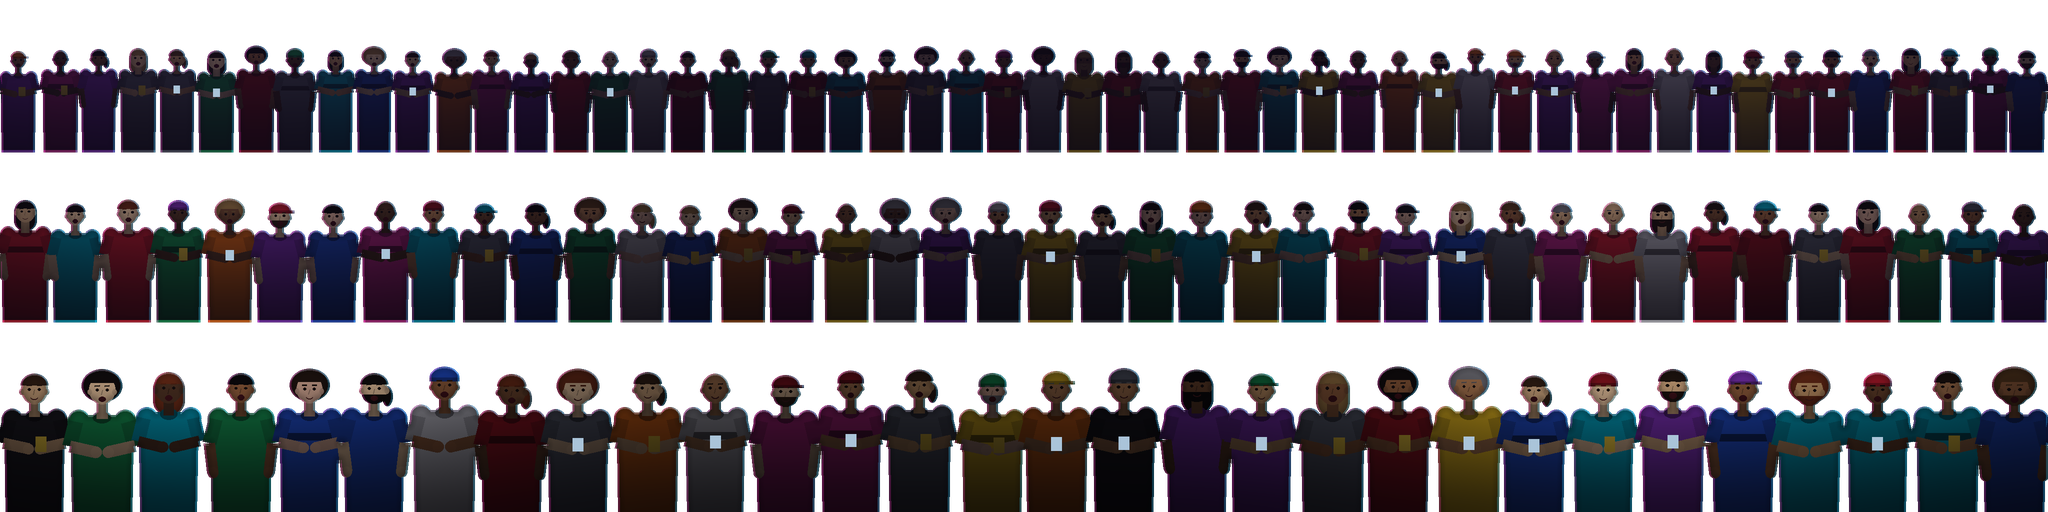
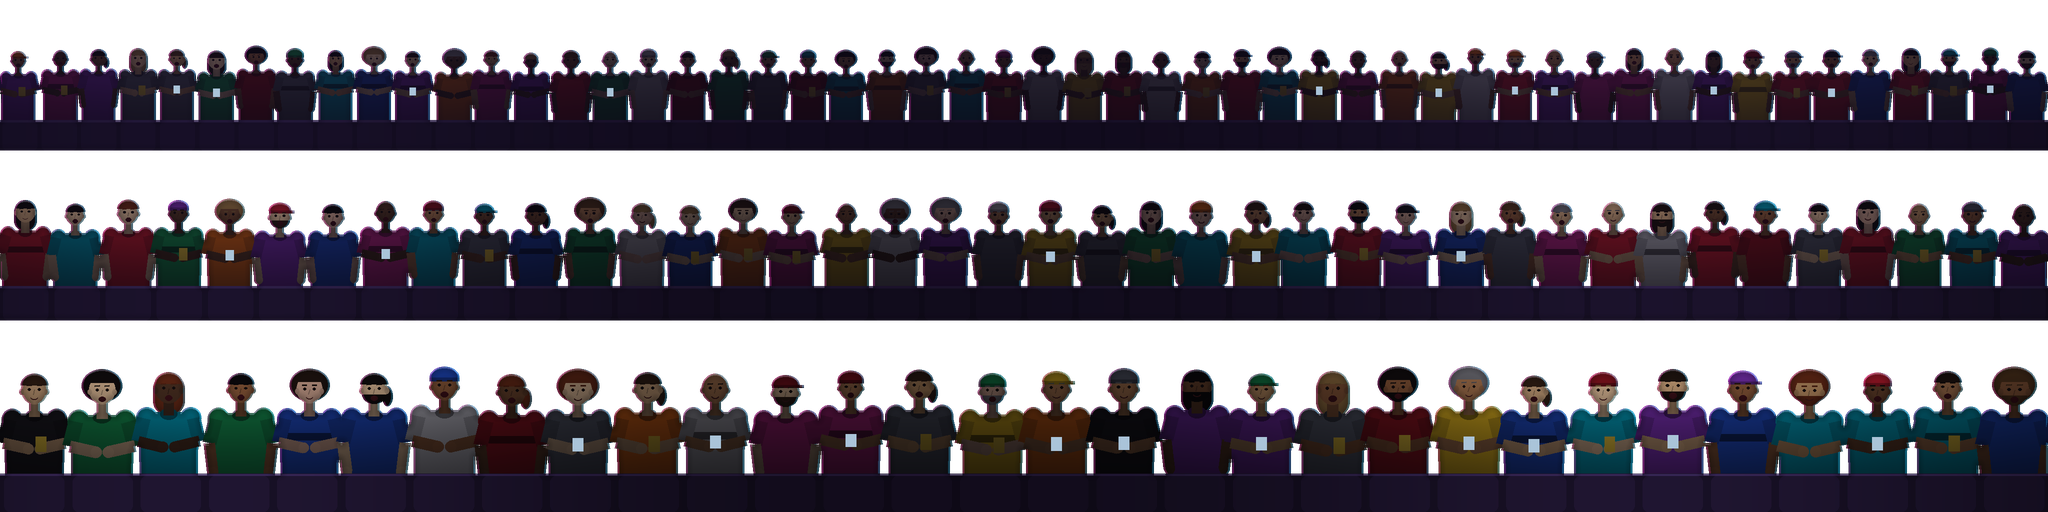
Build 100: desenho da build 97 na S905L, torcida sem cortes
- VISUAL_NOVO = false: a 98 e a 99 caiam em 99% do carregamento (o
  instante em que tudo e desenhado pela primeira vez). O jogo volta a
  desenhar exatamente como a 97, que rodava na placa; camera, permissoes
  uma vez so e tela cheia continuam.
- Luva e bota esquerdas do avesso: CULL_FRONT no material da peca (sem
  refazer a malha).
- Torcida: encosto da arquibancada na frente de cada fileira (gerar_torcida.py),
  parado no shader enquanto as pessoas se mexem; folga em cima para o
  pulo; movimento zerado na borda da coluna (sem linha entre pessoas);
  ritmo em fracoes calculadas no processador (meia precisao da Mali-450).

Claude-Session: https://claude.ai/code/session_017p6NC1XPLbgZ4GB1t1F6Rp

Changed region(s): [[0.0, 0.5312, 1.0, 0.6562], [0.0, 0.9062, 1.0, 1.0], [0.0, 0.2188, 1.0, 0.3125]]

diff --git a/tools/gerar_torcida.py b/tools/gerar_torcida.py
@@ -204,6 +204,13 @@ CAMISAS = [(214, 30, 48), (30, 76, 200), (250, 200, 30), (238, 238, 242),
            (0, 170, 200), (200, 40, 140), (90, 96, 110), (150, 20, 30)]
 CAMISAS[3] = (196, 196, 204)  # branco de ginásio, não branco de estúdio
 PLACAS = ["KO!", "VAI!", "10", "UAU", "POW", "#1"]
+## O ENCOSTO DA ARQUIBANCADA: da fração ASSENTO da faixa até o pé dela, uma
+## faixa opaca na frente de cada fileira. O shader da arena deixa esse
+## trecho PARADO (as pessoas pulam atrás dele) — tem de ser o mesmo número
+## de `ASSENTO_DA_TORCIDA` em `scripts/arena/arena3d.gd`. Sem ele cada
+## pessoa era uma barra que terminava num corte reto no pé da fileira.
+ASSENTO = 0.80
+ENCOSTO = (40, 28, 62)
 ESCALA = 2  # desenha no dobro e reduz: bordas lisas, sem serrilhado
 
 
@@ -240,7 +247,7 @@ def _pessoa(dbx, dcx, x, y0, y1, ww, cw):
             d.ellipse([x + cab_r * 0.6, cab_y - cab_r * 0.2, x + cab_r * 1.4, cab_y + cab_r * 1.3], fill=_cor(cabelo))
         # tronco: ombros largos, afina na cintura; camisa com sombra embaixo
         d.polygon([(x - ww * 0.52, ombro - ww * 0.05), (x + ww * 0.52, ombro - ww * 0.05),
-                   (x + ww * 0.49, y1 + 4), (x - ww * 0.49, y1 + 4)], fill=_cor(camisa))
+                   (x + ww * 0.49, y1 - 1), (x - ww * 0.49, y1 - 1)], fill=_cor(camisa))
         d.ellipse([x - ww * 0.56, ombro - ww * 0.14, x - ww * 0.20, ombro + ww * 0.22], fill=_cor(camisa))
         d.ellipse([x + ww * 0.20, ombro - ww * 0.14, x + ww * 0.56, ombro + ww * 0.22], fill=_cor(camisa))
         if listra:
@@ -342,6 +349,16 @@ def plateia():
             x = (c + 0.5) * cw + rng.uniform(-0.04, 0.04) * cw
             ww = cw * rng.uniform(0.84, 0.90)
             _pessoa(db, dc, x, y0 * ESCALA, y1 * ESCALA, ww, cw)
+        # o encosto na frente da fileira, igual nas duas versões
+        ya = (y0 + (y1 - y0) * ASSENTO) * ESCALA
+        yb = y1 * ESCALA
+        for d in (db, dc):
+            d.rectangle([0, ya, L, yb], fill=_cor(ENCOSTO))
+            for c in range(colunas):
+                xa, xb = c * cw + cw * 0.06, (c + 1) * cw - cw * 0.06
+                d.rounded_rectangle([xa, ya + ESCALA * 2, xb, yb], radius=cw * 0.10, fill=_cor(ENCOSTO, 1.35))
+            # o friso de cima pega a luz do ringue
+            d.rectangle([0, ya, L, ya + ESCALA * 2], fill=_cor(ENCOSTO, 2.4))
     saidas = []
     for img in (baixo, cima):
         a = np.asarray(img).astype(np.float32) / 255.0
@@ -361,7 +378,8 @@ def plateia():
             faixa = (np.arange(A) >= y0 * ESCALA) & (np.arange(A) < y1 * ESCALA)
             dentro = (yy[faixa] - y0 / 512) / ((y1 - y0) / 512)
             # o corpo mergulha na sombra da fileira da frente
-            luz[faixa] = nevoa * (0.22 + 0.78 * np.clip(1.15 - dentro * 1.15, 0.0, 1.0) ** 1.3)
+            luz[faixa] = nevoa * np.where(dentro >= ASSENTO, 0.62,
+                                          0.22 + 0.78 * np.clip(1.15 - dentro * 1.15, 0.0, 1.0) ** 1.3)
         brilho = luz * pocas * (0.62 + 0.38 * volume)
         cor = cor * brilho[..., None]
         # névoa do ginásio: as fileiras do fundo puxam para o roxo

diff --git a/tools/preparar_godot3.py b/tools/preparar_godot3.py
@@ -137,11 +137,6 @@ MIPMAPS_2D = {
 }
 
 
-def tem_alfa(arq):
-    with Image.open(arq) as im:
-        return im.mode in ("RGBA", "LA", "PA") or "transparency" in im.info
-
-
 def opcoes_de_importacao():
     for arq in sorted(glob.glob(str(RAIZ / "assets/**/*.png"), recursive=True)
                       + glob.glob(str(RAIZ / "assets/**/*.jpg"), recursive=True)
@@ -155,11 +150,7 @@ def opcoes_de_importacao():
             # Tudo em no máximo 1024: a arena é desenhada numa janela de
             # ~550x780, e a torcida em 2048 só gastava memória.
             limite = 1024
-            # COM TRANSPARÊNCIA (torcida, fachos, brilho): sem compressão. O
-            # ETC1 da Mali-450 não tem alfa, e o Godot 3 então rebaixa a
-            # imagem para 16 tons por canal — a torcida saía manchada.
-            modo = 0 if tem_alfa(arq) else 2
-            texto = IMPORT_TEXTURA.format(caminho=rel, modo=modo, mipmaps="true", limite=limite, normal=0)
+            texto = IMPORT_TEXTURA.format(caminho=rel, modo=2, mipmaps="true", limite=limite, normal=0)
         else:
             # 2D SEM MIPMAPS (menos as partículas, que já têm lados em
             # potência de 2): no OpenGL ES 2.0 da Mali-450 o Godot 3 estica
